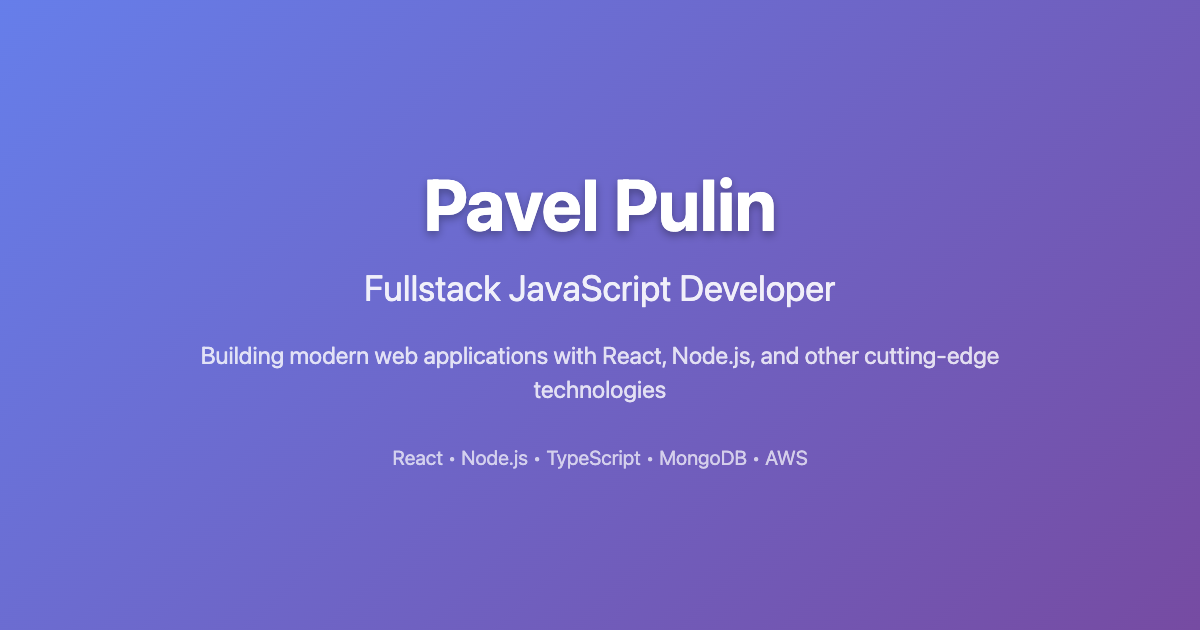
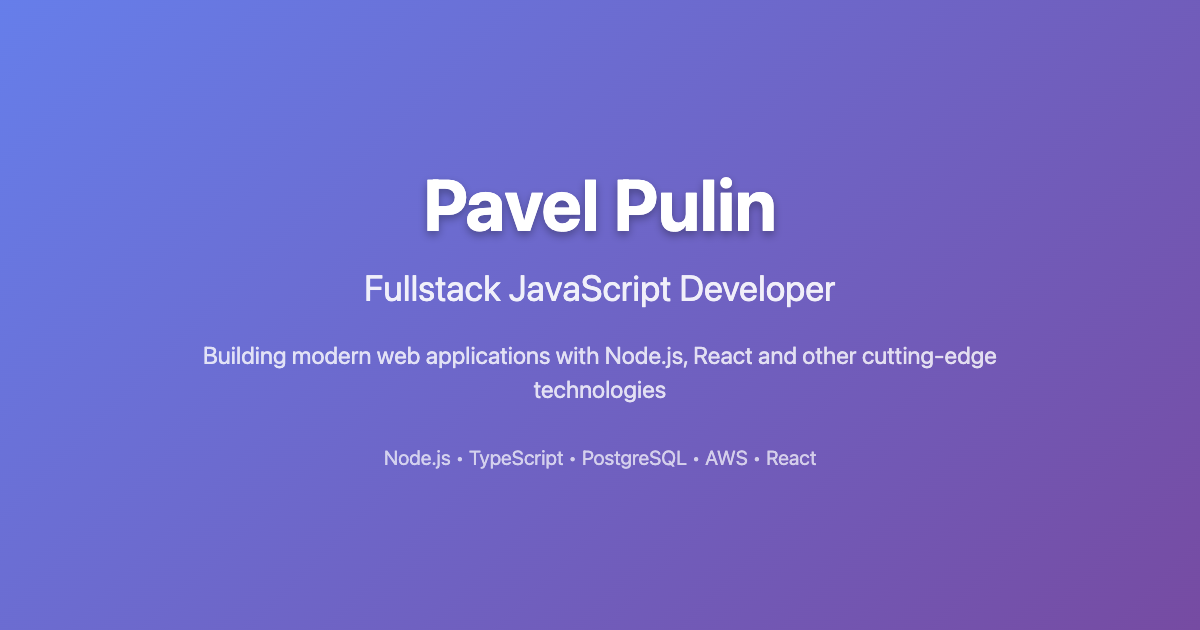
update social image

Changed region(s): [[0.1542, 0.5429, 0.8325, 0.6032], [0.3083, 0.6937, 0.6783, 0.754]]

diff --git a/public/og-image.html b/public/og-image.html
@@ -50,8 +50,8 @@
     <div class="container">
         <div class="name">Pavel Pulin</div>
         <div class="title">Fullstack JavaScript Developer</div>
-        <div class="description">Building modern web applications with React, Node.js, and other cutting-edge technologies</div>
-        <div class="tech-stack">React • Node.js • TypeScript • MongoDB • AWS</div>
+        <div class="description">Building modern web applications with Node.js, React and other cutting-edge technologies</div>
+        <div class="tech-stack">Node.js • TypeScript • PostgreSQL • AWS •  React</div>
     </div>
 </body>
 </html>
